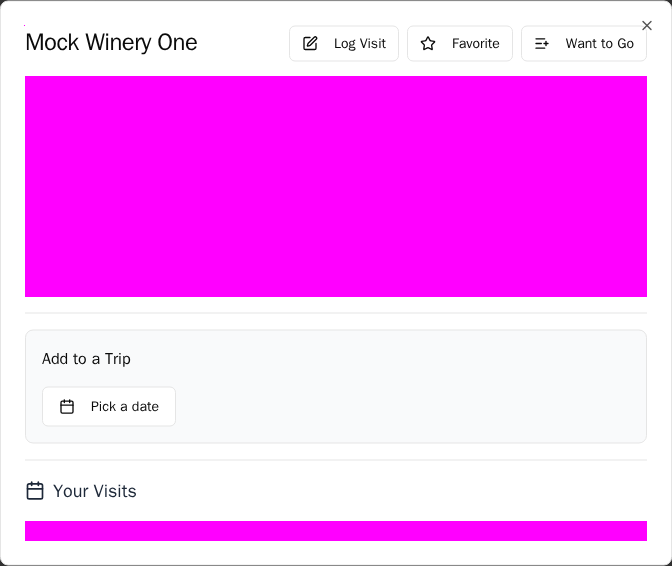
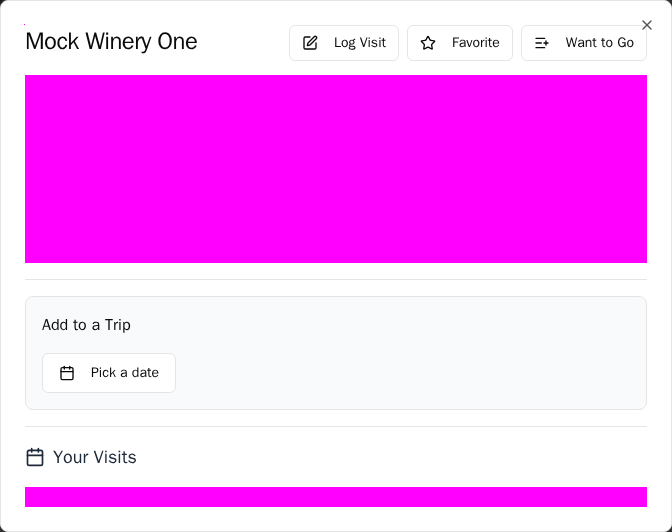
fix(places-v1): map database accessibility_flags and resolve evChargeOptions / freeParking derivation issues

diff --git a/lib/utils/__tests__/winery.test.ts b/lib/utils/__tests__/winery.test.ts
@@ -107,4 +107,89 @@ describe('standardizeWineryData', () => {
     expect(result?.primary_photo_reference).toBe('places/place_v1/photos/photo_abc');
     expect(result?.photo_references).toEqual(['places/place_v1/photos/photo_abc', 'places/place_v1/photos/photo_xyz']);
   });
+
+  it('standardizes accessibility_flags from database RPC as accessibility_options', () => {
+    const dbRpcData = {
+      id: 123 as WineryDbId,
+      google_place_id: 'ChIJ-mock-id',
+      name: 'Mock Winery',
+      address: '123 Fake St',
+      latitude: 42,
+      longitude: -76,
+      accessibility_flags: {
+        wheelchairAccessibleParking: true,
+        wheelchairAccessibleSeating: true,
+        wheelchairAccessibleEntrance: true,
+        wheelchairAccessibleRestroom: true
+      }
+    };
+
+    const result = standardizeWineryData(dbRpcData);
+
+    expect(result).not.toBeNull();
+    expect(result?.accessibility_options).toEqual({
+      wheelchairAccessibleParking: true,
+      wheelchairAccessibleSeating: true,
+      wheelchairAccessibleEntrance: true,
+      wheelchairAccessibleRestroom: true
+    });
+  });
+
+  it('derives freeParking boolean from subfields when freeParking is undefined', () => {
+    const wineryWithFree = standardizeWineryData({
+      id: 'mock_place',
+      name: 'Mock',
+      latitude: 42,
+      longitude: -76,
+      parking_options: {
+        freeParkingLot: true,
+      }
+    });
+    expect(wineryWithFree?.parking_options?.freeParking).toBe(true);
+
+    const wineryWithGarageFree = standardizeWineryData({
+      id: 'mock_place',
+      name: 'Mock',
+      latitude: 42,
+      longitude: -76,
+      parking_options: {
+        freeGarageParking: true,
+      }
+    });
+    expect(wineryWithGarageFree?.parking_options?.freeParking).toBe(true);
+
+    const wineryWithPaid = standardizeWineryData({
+      id: 'mock_place',
+      name: 'Mock',
+      latitude: 42,
+      longitude: -76,
+      parking_options: {
+        paidParkingLot: true,
+      }
+    });
+    expect(wineryWithPaid?.parking_options?.freeParking).toBe(false);
+
+    const wineryWithGaragePaid = standardizeWineryData({
+      id: 'mock_place',
+      name: 'Mock',
+      latitude: 42,
+      longitude: -76,
+      parking_options: {
+        paidGarageParking: true,
+      }
+    });
+    expect(wineryWithGaragePaid?.parking_options?.freeParking).toBe(false);
+
+    const wineryWithExplicit = standardizeWineryData({
+      id: 'mock_place',
+      name: 'Mock',
+      latitude: 42,
+      longitude: -76,
+      parking_options: {
+        freeParking: false,
+        freeParkingLot: true,
+      }
+    });
+    expect(wineryWithExplicit?.parking_options?.freeParking).toBe(false); // Explicit overrides derivation
+  });
 });

diff --git a/lib/utils/winery.ts b/lib/utils/winery.ts
@@ -242,8 +242,40 @@ export const standardizeWineryData = (
   const servesWine = source.serves_wine !== undefined ? source.serves_wine : existing?.serves_wine;
   const goodForChildren = source.good_for_children !== undefined ? source.good_for_children : existing?.good_for_children;
   const outdoorSeating = source.outdoor_seating !== undefined ? source.outdoor_seating : existing?.outdoor_seating;
-  const parkingOptions = source.parking_options !== undefined ? source.parking_options : existing?.parking_options;
-  const accessibilityOptions = source.accessibility_options !== undefined ? source.accessibility_options : existing?.accessibility_options;
+  let parkingOptions = source.parking_options !== undefined ? source.parking_options : existing?.parking_options;
+  if (parkingOptions && typeof parkingOptions === 'object' && !Array.isArray(parkingOptions)) {
+    const pObj = parkingOptions as Record<string, any>;
+    if (pObj.freeParking === undefined) {
+      const hasFree = 
+        pObj.freeParkingLot === true || 
+        pObj.freeStreetParking === true || 
+        pObj.freeGarageParking === true ||
+        pObj.freeValetParking === true;
+        
+      const hasPaid = 
+        pObj.paidParkingLot === true || 
+        pObj.paidStreetParking === true || 
+        pObj.paidGarageParking === true ||
+        pObj.paidValetParking === true;
+
+      let freeParkingVal: boolean | undefined = undefined;
+      if (hasFree) {
+        freeParkingVal = true;
+      } else if (hasPaid) {
+        freeParkingVal = false;
+      }
+
+      if (freeParkingVal !== undefined) {
+        parkingOptions = {
+          ...pObj,
+          freeParking: freeParkingVal
+        };
+      }
+    }
+  }
+  const accessibilityOptions = source.accessibility_options !== undefined 
+    ? source.accessibility_options 
+    : (source.accessibility_flags !== undefined ? source.accessibility_flags : existing?.accessibility_options);
 
   const primaryPhotoReference = source.primary_photo_reference !== undefined ? source.primary_photo_reference : (source.primaryPhotoReference !== undefined ? source.primaryPhotoReference : existing?.primary_photo_reference);
   const photoReferences = source.photo_references !== undefined ? source.photo_references : (source.photoReferences !== undefined ? source.photoReferences : existing?.photo_references);

diff --git a/lib/utils/adapters/google-v1.ts b/lib/utils/adapters/google-v1.ts
@@ -26,7 +26,9 @@ export function googleV1ToWinery(place: GoogleV1Place): Winery {
     generative_summary: place.generativeSummary?.overview?.text || null,
     neighborhood_summary: place.neighborhoodSummary?.overview?.text || null,
     allows_dogs: place.allowsDogs ?? null,
-    has_ev_charging: (place.parkingOptions as any)?.hasEvChargingStations ?? null,
+    has_ev_charging: place.evChargeOptions !== undefined && place.evChargeOptions !== null
+      ? (typeof place.evChargeOptions.connectorCount === 'number' ? place.evChargeOptions.connectorCount > 0 : true)
+      : ((place.parkingOptions as any)?.hasEvChargingStations ?? null),
     serves_wine: place.servesWine ?? null,
     good_for_children: place.goodForChildren ?? null,
     outdoor_seating: place.outdoorSeating ?? null,

diff --git a/supabase/functions/_shared/normalization.ts b/supabase/functions/_shared/normalization.ts
@@ -47,7 +47,9 @@ export function normalizeGooglePlaceV1(place: any, tier: 'basic' | 'enriched' = 
     neighborhood_summary: place.neighborhoodSummary ? { overview: { text: place.neighborhoodSummary.overview?.text } } : null,
     editorial_summary: place.editorialSummary ? { overview: { text: place.editorialSummary.overview?.text } } : null,
     allows_dogs: place.allowsDogs ?? null,
-    has_ev_charging: place.parkingOptions?.hasEvChargingStations ?? null,
+    has_ev_charging: place.evChargeOptions !== undefined && place.evChargeOptions !== null
+      ? (typeof place.evChargeOptions.connectorCount === 'number' ? place.evChargeOptions.connectorCount > 0 : true)
+      : (place.parkingOptions?.hasEvChargingStations ?? null),
     serves_wine: place.servesWine ?? null,
     good_for_children: place.goodForChildren ?? null,
     outdoor_seating: place.outdoorSeating ?? null,

diff --git a/lib/types.ts b/lib/types.ts
@@ -238,6 +238,7 @@ export interface GoogleV1Place {
   outdoorSeating?: boolean;
   parkingOptions?: Record<string, unknown>;
   accessibilityOptions?: Record<string, unknown>;
+  evChargeOptions?: Record<string, any> | null;
 }
 
 export interface TripMember {

diff --git a/supabase/functions/_shared/google-maps.ts b/supabase/functions/_shared/google-maps.ts
@@ -24,6 +24,7 @@ export const ENRICHMENT_FIELD_MASK = [
   'places.reviews',
   'places.parkingOptions',
   'places.accessibilityOptions',
+  'places.evChargeOptions',
   'places.rating',
   'places.websiteUri',
   'places.regularOpeningHours',